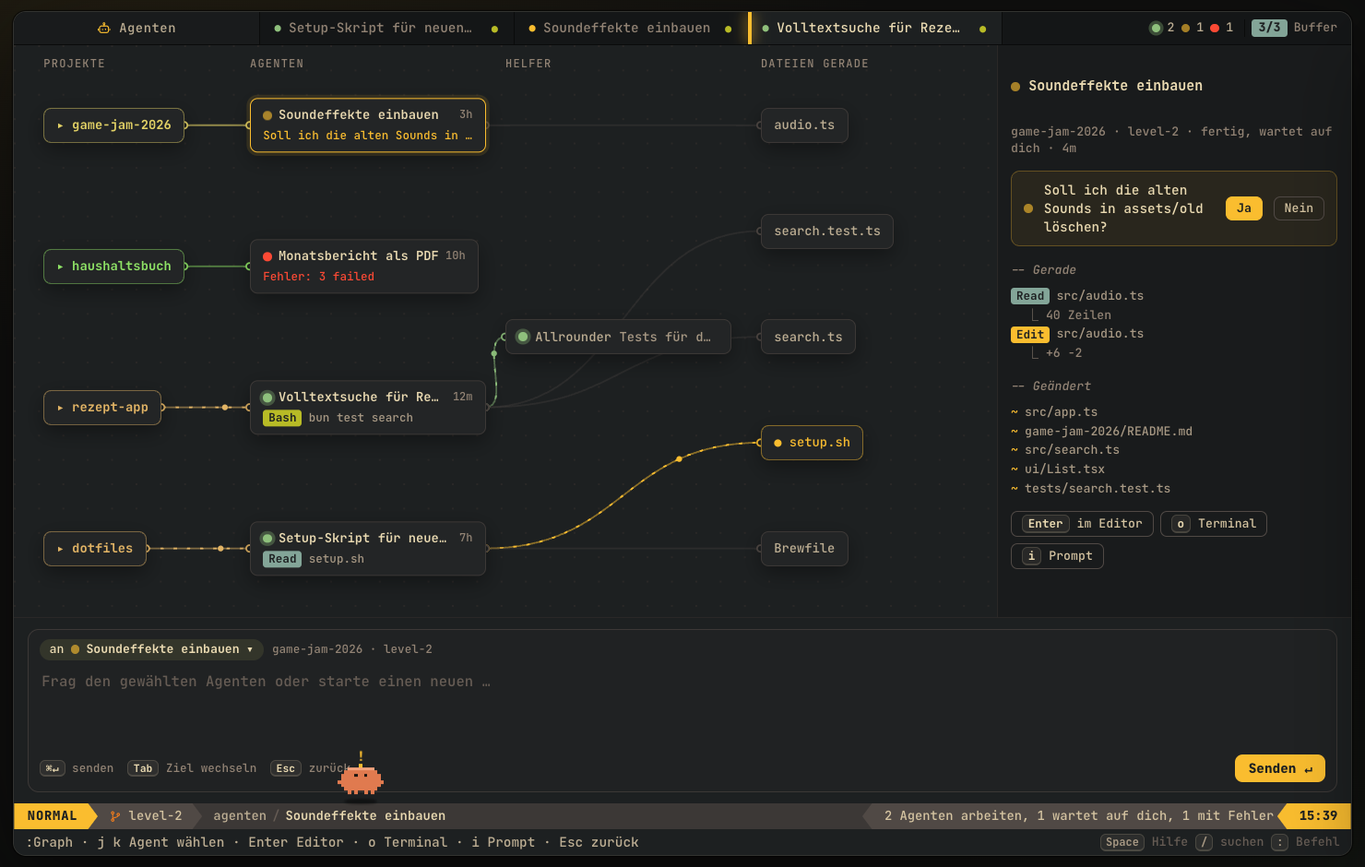
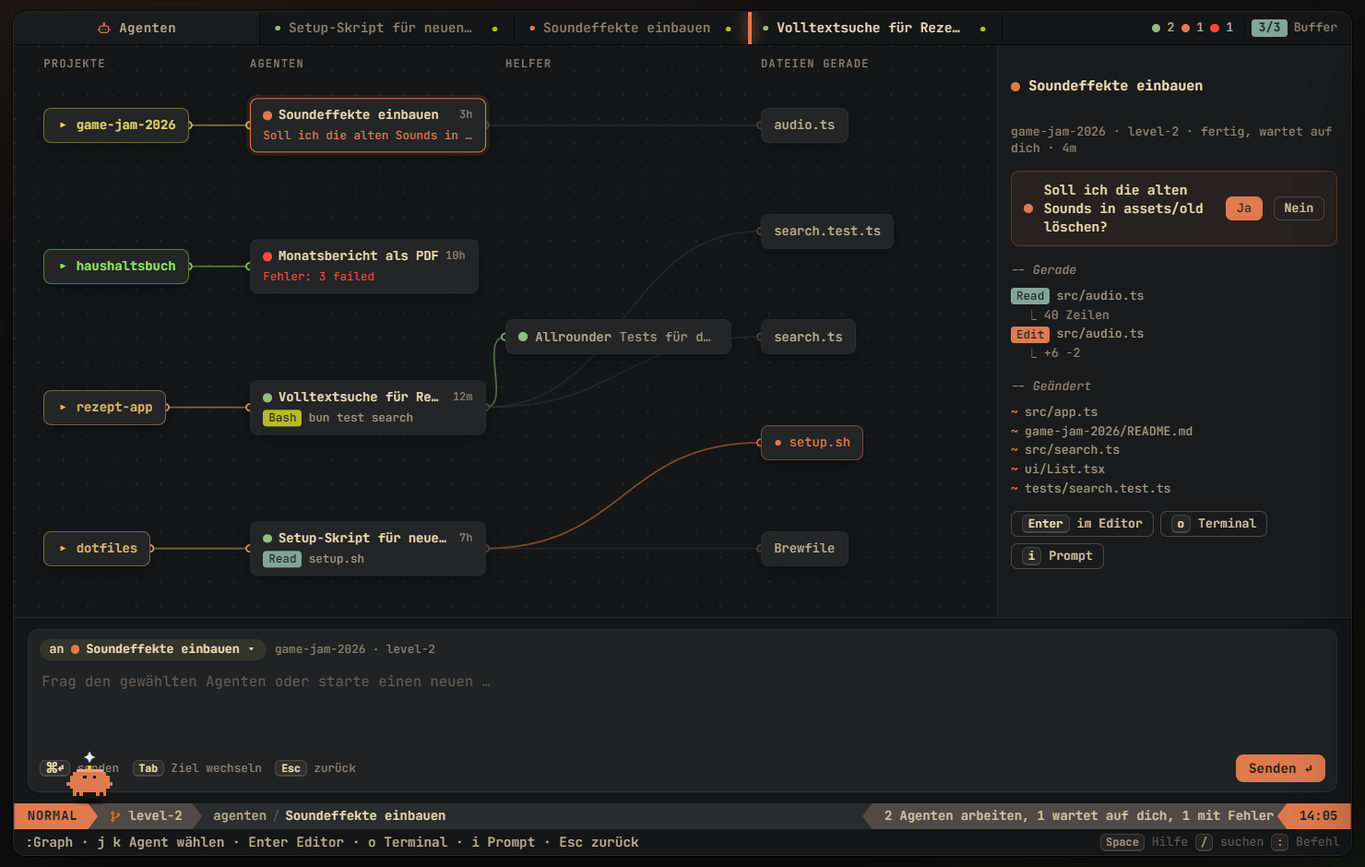
Loops Farben für die ganze App, neue Screenshots
Die App nutzt jetzt die Palette aus der Loops Ansicht: fast schwarzer
Hintergrund und Claude Orange statt Gruvbox Gelb als Akzent. Betrifft
Dashboard, Editor, Graph, Session Leiste, Terminal und den Begleiter.
Alle Screenshots im README sind mit den Demo Daten neu aufgenommen.

diff --git a/app/renderer/nvim.js b/app/renderer/nvim.js
@@ -2,15 +2,15 @@
 // relative numbers and signs, spring cables with particles, lualine, cmdline, Telescope, which-key, notify.
 (() => {
   const css = `
-.lk-nvim { --bgh:#1d2021; --bg0:#282828; --bg1:#3c3836; --bg2:#504945; --bg3:#665c54; --fg:#ebdbb2; --fg2:#d5c4a1; --fg3:#bdae93; --fg4:#a89984; --gr:#928374;
-  --rd:#fb4934; --gn:#b8bb26; --ye:#fabd2f; --bl:#83a598; --pu:#d3869b; --aq:#8ec07c; --or:#fe8019; --rh:22px; --tw:222px; --gut:40px;
+.lk-nvim { --bgh:#141617; --bg0:#1b1d1e; --bg1:#2a2d2f; --bg2:#504945; --bg3:#665c54; --fg:#ebdbb2; --fg2:#d5c4a1; --fg3:#bdae93; --fg4:#a89984; --gr:#928374;
+  --rd:#fb4934; --gn:#b8bb26; --ye:#e07a4f; --bl:#83a598; --pu:#d3869b; --aq:#8ec07c; --or:#fe8019; --rh:22px; --tw:222px; --gut:40px;
   font: 500 12.5px/1.4 var(--mono); color:var(--fg); overflow:hidden;
-  background: radial-gradient(1200px 700px at 8% -12%, rgba(250,189,47,.09), transparent 60%), radial-gradient(1000px 700px at 108% 118%, rgba(142,192,124,.09), transparent 60%), #0c0d0e; }
+  background: radial-gradient(1200px 700px at 8% -12%, rgba(224,122,79,.09), transparent 60%), radial-gradient(1000px 700px at 108% 118%, rgba(142,192,124,.09), transparent 60%), #0f1011; }
 .lk-nvim [hidden] { display:none !important; }
 .lk-nvim svg.i { width:13px; height:13px; }
 .lk-nvim kbd { font:700 10.5px var(--mono); color:var(--fg); background:rgba(235,219,178,.07); border:1px solid rgba(235,219,178,.16); border-bottom-width:2px; border-radius:5px; padding:0 5px; }
 .lk-nvim .nv-term { position:absolute; left:12px; right:12px; top:10px; bottom:10px; transition:bottom .5s cubic-bezier(.2,.9,.25,1); display:flex; flex-direction:column; background:var(--bgh); border:1px solid rgba(235,219,178,.1);
-  border-radius:12px; overflow:hidden; box-shadow:0 30px 90px rgba(0,0,0,.65), 0 0 0 1px rgba(0,0,0,.6), 0 0 120px rgba(250,189,47,.04); }
+  border-radius:12px; overflow:hidden; box-shadow:0 30px 90px rgba(0,0,0,.65), 0 0 0 1px rgba(0,0,0,.6), 0 0 120px rgba(224,122,79,.04); }
 
 /* ---------- dashboard ---------- */
 .lk-nvim .nv-dash { flex:1; min-height:0; overflow:auto; scrollbar-width:none; display:flex; flex-direction:column; align-items:center; padding:3.2vh 24px 14px; cursor:default; }
@@ -20,7 +20,7 @@
 .lk-nvim .dh-logo .lg-fg { position:absolute; inset:0; }
 .lk-nvim .dh-logo .lg-sh { color:#504945; }
 .lk-nvim .dh-logo .lg-fg span { background:linear-gradient(90deg, #fabd2f 0%, #fe8019 18%, #d3869b 30%, #8ec07c 44%, #83a598 50%, #8ec07c 62%, #fe8019 82%, #fabd2f 100%); background-size:200% 100%;
-  -webkit-background-clip:text; background-clip:text; color:transparent; animation:nvShim 9s ease-in-out infinite alternate; filter:drop-shadow(0 0 10px rgba(250,189,47,.28)); }
+  -webkit-background-clip:text; background-clip:text; color:transparent; animation:nvShim 9s ease-in-out infinite alternate; filter:drop-shadow(0 0 10px rgba(224,122,79,.28)); }
 .lk-nvim .dh-logo span { display:block; clip-path:inset(0 0 0 0); animation:nvType .85s steps(48) both; animation-delay:calc(var(--r) * 90ms); }
 .lk-nvim .dh-logo .lg-fg span { animation:nvType .85s steps(48) both, nvShim 9s ease-in-out 1.2s infinite alternate; animation-delay:calc(var(--r) * 90ms), 1.2s; }
 @keyframes nvType { from { clip-path:inset(0 100% 0 0); } }
@@ -50,7 +50,7 @@
 .lk-nvim .dh-lazy { margin-top:12px; color:var(--gr); font-size:11.5px; padding-left:10px; }
 .lk-nvim .dh-lazy b { color:var(--ye); font-weight:600; }
 .lk-nvim .dh-right { display:flex; flex-direction:column; gap:14px; min-width:0; border-radius:10px; transition:box-shadow .5s, background .5s; padding:2px 4px; }
-.lk-nvim .dh-right.pulse { background:rgba(250,189,47,.035); box-shadow:0 0 0 1px rgba(250,189,47,.3), 0 0 40px rgba(250,189,47,.08); }
+.lk-nvim .dh-right.pulse { background:rgba(224,122,79,.035); box-shadow:0 0 0 1px rgba(224,122,79,.3), 0 0 40px rgba(224,122,79,.08); }
 .lk-nvim .dh-tot { display:grid; grid-template-columns:repeat(4, 1fr); gap:8px; }
 .lk-nvim .dh-tot div { padding:6px 10px 7px; border-left:2px solid var(--c); background:linear-gradient(90deg, color-mix(in srgb, var(--c) 10%, transparent), transparent); border-radius:0 6px 6px 0;
   animation:nvUp .6s var(--spring) both; animation-delay:calc(300ms + var(--i) * 60ms); }
@@ -124,7 +124,7 @@
 .lk-nvim .tt.wt { color:var(--ye); } .lk-nvim .tt.er { color:var(--rd); }
 /* composer */
 .lk-nvim .cmp { display:flex; flex-direction:column; background:#202223; border:1px solid var(--bg1); border-radius:10px; min-height:0; overflow:hidden; transition:border-color .2s, box-shadow .2s; }
-.lk-nvim .cmp:focus-within { border-color:var(--ye); box-shadow:0 0 0 3px rgba(250,189,47,.12); }
+.lk-nvim .cmp:focus-within { border-color:var(--ye); box-shadow:0 0 0 3px rgba(224,122,79,.12); }
 .lk-nvim .cmp-top { display:flex; align-items:center; gap:8px; padding:8px 10px 0; min-width:0; }
 .lk-nvim .chip { display:inline-flex; align-items:center; gap:6px; padding:2px 9px; border-radius:20px; background:#2a2c2d; color:var(--fg3); font-size:11px; white-space:nowrap; max-width:100%; overflow:hidden; }
 .lk-nvim .chip.to { background:#33352a; color:var(--fg); }
@@ -139,7 +139,7 @@
 .lk-nvim .dh-sugg button { border:1px solid var(--bg1); border-radius:20px; padding:2px 10px; color:var(--fg4); font-size:11px; max-width:100%; overflow:hidden; text-overflow:ellipsis; white-space:nowrap; }
 .lk-nvim .dh-sugg button:hover { border-color:var(--ye); color:var(--fg); }
 /* needs you */
-.lk-nvim .ask { display:flex; align-items:center; gap:10px; padding:8px 11px; border-radius:8px; background:rgba(250,189,47,.07); border:1px solid rgba(250,189,47,.28); margin-bottom:6px; }
+.lk-nvim .ask { display:flex; align-items:center; gap:10px; padding:8px 11px; border-radius:8px; background:rgba(224,122,79,.07); border:1px solid rgba(224,122,79,.28); margin-bottom:6px; }
 .lk-nvim .ask.err { background:rgba(251,73,52,.06); border-color:rgba(251,73,52,.28); }
 .lk-nvim .ask .q { flex:1; min-width:0; color:var(--fg); font-size:12px; }
 .lk-nvim .ask .q small { display:block; color:var(--gr); font-size:10.5px; white-space:nowrap; overflow:hidden; text-overflow:ellipsis; }
@@ -158,8 +158,8 @@
 .lk-nvim .gn.ag .now { display:flex; gap:6px; align-items:center; font-size:10.5px; min-width:0; }
 .lk-nvim .gn.sub { color:var(--fg3); font-size:10.5px; padding:4px 8px; }
 .lk-nvim .gn.f { color:var(--fg3); font-size:10.5px; padding:3px 8px; }
-.lk-nvim .gn.f.hot { color:var(--ye); border-color:rgba(250,189,47,.45); }
-.lk-nvim .gn.on { border-color:var(--ye); box-shadow:0 0 0 3px rgba(250,189,47,.12), 0 6px 18px rgba(0,0,0,.35); }
+.lk-nvim .gn.f.hot { color:var(--ye); border-color:rgba(224,122,79,.45); }
+.lk-nvim .gn.on { border-color:var(--ye); box-shadow:0 0 0 3px rgba(224,122,79,.12), 0 6px 18px rgba(0,0,0,.35); }
 .lk-nvim .gn.done { opacity:.6; }
 .lk-nvim .mg .empty { position:absolute; left:0; right:0; bottom:8px; text-align:center; color:var(--gr); font-size:11px; font-style:italic; }
 /* today lanes */
@@ -234,12 +234,12 @@
 .lk-nvim .wb .c { margin-left:auto; color:var(--bg3); }
 .lk-nvim .nv-w.on .wb { color:var(--fg); }
 .lk-nvim .nv-w.on .wb .n { background:var(--ye); }
-.lk-nvim .nv-w.on .wb::after { content:""; position:absolute; left:0; right:0; bottom:-1px; height:1px; background:linear-gradient(90deg, var(--ye), rgba(250,189,47,0)); }
+.lk-nvim .nv-w.on .wb::after { content:""; position:absolute; left:0; right:0; bottom:-1px; height:1px; background:linear-gradient(90deg, var(--ye), rgba(224,122,79,0)); }
 .lk-nvim .wl { position:relative; flex:1; min-height:0; overflow:auto; scrollbar-width:none; padding:4px 0 12px; }
 .lk-nvim .wl::-webkit-scrollbar { display:none; }
 .lk-nvim .nv-w:not(.on) .rows { opacity:.74; }
 .lk-nvim .cl { position:absolute; left:0; right:0; top:0; height:var(--rh); background:#282625; pointer-events:none; z-index:0; transition:transform .55s var(--spring), background .3s, box-shadow .3s; }
-.lk-nvim .nv-w.on .cl { background:linear-gradient(90deg, rgba(250,189,47,.12), rgba(250,189,47,.035) 70%, rgba(250,189,47,.02)); box-shadow:inset 2px 0 0 var(--ye); }
+.lk-nvim .nv-w.on .cl { background:linear-gradient(90deg, rgba(224,122,79,.12), rgba(224,122,79,.035) 70%, rgba(224,122,79,.02)); box-shadow:inset 2px 0 0 var(--ye); }
 .lk-nvim .cur { position:absolute; left:var(--cx, 70px); top:0; width:1ch; height:var(--rh); pointer-events:none; z-index:3; transition:transform .55s var(--spring); }
 .lk-nvim .cur::before { content:""; position:absolute; left:0; right:0; top:3px; bottom:3px; background:var(--fg); mix-blend-mode:difference; border-radius:1px; animation:nvBlink 1.06s steps(1) infinite; }
 .lk-nvim .nv-w:not(.on) .cur { opacity:0; }
@@ -278,7 +278,7 @@
 .lk-nvim .tree .r.sel .tx { color:var(--fg); }
 .lk-nvim .tree .vt { font-style:normal; max-width:none; }
 .lk-nvim .tree .vt .cnt { color:var(--bg3); background:rgba(235,219,178,.05); border-radius:8px; padding:0 6px; }
-.lk-nvim .tree .r.sel .vt .cnt { color:var(--fg2); background:rgba(250,189,47,.12); }
+.lk-nvim .tree .r.sel .vt .cnt { color:var(--fg2); background:rgba(224,122,79,.12); }
 .lk-nvim .tree .cur { display:none; }
 /* scrollbar / minimap */
 .lk-nvim .sbar { position:absolute; right:1px; top:31px; bottom:4px; width:7px; z-index:4; pointer-events:none; }
@@ -304,7 +304,7 @@
 .lk-nvim .md-li small { color:var(--gr); margin-left:6px; }
 .lk-nvim .pv-f { flex:none; padding:9px 12px; border-top:1px solid #2a2827; display:flex; gap:8px; }
 .lk-nvim .go { flex:1; display:flex; align-items:center; justify-content:center; gap:8px; padding:8px 12px; border-radius:7px; font:800 12.5px var(--mono); color:#1d2021;
-  background:linear-gradient(135deg, var(--ye), #f5a623); box-shadow:0 6px 24px rgba(250,189,47,.2); transition:transform .35s var(--spring), filter .2s; }
+  background:linear-gradient(135deg, var(--ye), #f0a070); box-shadow:0 6px 24px rgba(224,122,79,.2); transition:transform .35s var(--spring), filter .2s; }
 .lk-nvim .go:hover { filter:brightness(1.08); transform:translateY(-1px); }
 .lk-nvim .go:active { transform:scale(.96); }
 .lk-nvim .go svg.i { fill:#1d2021; }
@@ -314,7 +314,7 @@
 .lk-nvim .w-glow { fill:none; stroke-width:7; opacity:.5; }
 .lk-nvim .w-core { fill:none; stroke-width:2; stroke-linecap:round; }
 .lk-nvim .w-end { fill:#1d2021; stroke-width:2; }
-.lk-nvim .w-p { fill:#fff6d8; }
+.lk-nvim .w-p { fill:#ffe2d3; }
 .lk-nvim .w-g { transition:opacity .35s; }
 .lk-nvim .w-g.off { opacity:0; }
 /* agents buffer */
@@ -334,7 +334,7 @@
 .lk-nvim .ag-r .mp { font-size:10px; padding:1px 7px; }
 .lk-nvim .ag-r .du { color:var(--ye); }
 .lk-nvim .ag-c { color:var(--gr); font-style:italic; padding:0 12px 0 22px; }
-.lk-nvim .ag-pt { position:absolute; left:0; top:0; width:6px; height:6px; border-radius:50%; background:#fff1c4; pointer-events:none; z-index:2;
+.lk-nvim .ag-pt { position:absolute; left:0; top:0; width:6px; height:6px; border-radius:50%; background:#ffd6c2; pointer-events:none; z-index:2;
   box-shadow:0 0 6px 2px var(--pc, #d3869b), 0 0 14px 4px color-mix(in srgb, var(--pc, #d3869b) 50%, transparent); offset-rotate:0deg; offset-anchor:50% 50%;
   animation:nvRide var(--d, 2.6s) linear infinite; animation-delay:var(--dl, 0s); }
 @keyframes nvRide { 0% { offset-distance:0%; opacity:0; } 8% { opacity:1; } 88% { opacity:1; } 100% { offset-distance:100%; opacity:0; } }
@@ -486,7 +486,7 @@
 .lk-nvim .mc-l .tp.http, .lk-nvim .mc-l .tp.sse { color:var(--bl); }
 .lk-nvim .mc-l .cm { color:var(--fg4); overflow:hidden; text-overflow:ellipsis; min-width:0; }
 .lk-nvim .mc-r { display:flex; align-items:center; gap:8px; color:var(--fg4); font-size:11px; padding-left:12px; }
-.lk-nvim .mc-r .ek { color:var(--ye); background:rgba(250,189,47,.08); border-radius:3px; padding:0 6px; }
+.lk-nvim .mc-r .ek { color:var(--ye); background:rgba(224,122,79,.08); border-radius:3px; padding:0 6px; }
 .lk-nvim .mc-r .st { color:var(--gr); font-style:italic; max-width:220px; overflow:hidden; text-overflow:ellipsis; }
 .lk-nvim .mc .sg.ok { color:var(--gn); } .lk-nvim .mc .sg.bad { color:var(--rd); } .lk-nvim .mc .sg.spin { color:var(--ye); } .lk-nvim .mc .sg.unk { color:var(--bg3); }
 .lk-nvim .mc-hint { flex:none; display:flex; align-items:center; gap:14px; flex-wrap:wrap; padding:8px 14px; border-top:1px solid #2a2827; color:var(--gr); font-size:11.5px; }
@@ -519,7 +519,7 @@
 .lk-nvim .ff input, .lk-nvim .ff textarea { width:100%; background:#1a1c1d; border:1px solid #3c3836; border-radius:4px; color:var(--fg); font:500 12.5px var(--mono); padding:5px 9px; outline:0; caret-color:var(--ye); resize:vertical; }
 .lk-nvim .ff textarea { min-height:58px; line-height:1.5; }
 .lk-nvim .ff input::placeholder, .lk-nvim .ff textarea::placeholder { color:#5a524c; }
-.lk-nvim .ff input:focus, .lk-nvim .ff textarea:focus, .lk-nvim .ff .ch:focus { border-color:var(--ye); box-shadow:0 0 0 1px rgba(250,189,47,.25); outline:0; }
+.lk-nvim .ff input:focus, .lk-nvim .ff textarea:focus, .lk-nvim .ff .ch:focus { border-color:var(--ye); box-shadow:0 0 0 1px rgba(224,122,79,.25); outline:0; }
 .lk-nvim .ff .ch { display:flex; gap:4px; align-items:center; border:1px solid transparent; border-radius:4px; padding:3px; min-width:0; }
 .lk-nvim .ff .ch span { padding:1px 10px; border-radius:3px; color:var(--fg4); cursor:pointer; font-size:12px; }
 .lk-nvim .ff .ch span:hover { color:var(--fg); }
@@ -569,7 +569,7 @@
   };
   const EIGHTH = ["", "▏", "▎", "▍", "▌", "▋", "▊", "▉"];
   const FAM = { opus: "#d3869b", sonnet: "#83a598", haiku: "#b8bb26", fable: "#fe8019", x: "#928374" };
-  const MODE_C = { NORMAL: "#fabd2f", VISUAL: "#d3869b", "V-LINE": "#d3869b", "V-BLOCK": "#d3869b", COMMAND: "#fe8019", INSERT: "#b8bb26", REPLACE: "#fb4934" };
+  const MODE_C = { NORMAL: "#e07a4f", VISUAL: "#d3869b", "V-LINE": "#d3869b", "V-BLOCK": "#d3869b", COMMAND: "#fe8019", INSERT: "#b8bb26", REPLACE: "#fb4934" };
   const QUOTES = ["Jede Session ist ein Faden. Hier laufen sie zusammen.", "Nicht neu anfangen. Weitermachen, wo es gut war.",
     "Ein guter Schritt zurück ist oft der schnellste nach vorn.", "Der beste Prompt ist der, den du schon geschrieben hast."];
 
@@ -720,13 +720,13 @@
       return "█".repeat(full) + (rem && full < cells ? EIGHTH[rem] : "") || "▏";
     };
 
-    const DASH_MENU = [["r", "Zuletzt", "clock", "#83a598"], ["f", "Suchen", "search", "#fabd2f"], ["g", "Agenten-Graph", "bot", "#8ec07c"], ["l", "Loops bis grün", "play", "#e07a4f"], ["p", "Projekte", "folder", "#8ec07c"], ["n", "Notizen", "note", "#b8bb26"],
-      ["a", "Agents-Bäume", "bot", "#d3869b"], ["m", "MCP-Server", "plug", "#8ec07c"], ["c", "Neue Session", "term", "#83a598"], ["o", "Neues Projekt", "folder", "#fabd2f"], ["s", "Statistik", "grid", "#fe8019"], ["q", "Schliessen", "x", "#928374"]];
+    const DASH_MENU = [["r", "Zuletzt", "clock", "#83a598"], ["f", "Suchen", "search", "#e07a4f"], ["g", "Agenten-Graph", "bot", "#8ec07c"], ["l", "Loops bis grün", "play", "#e07a4f"], ["p", "Projekte", "folder", "#8ec07c"], ["n", "Notizen", "note", "#b8bb26"],
+      ["a", "Agents-Bäume", "bot", "#d3869b"], ["m", "MCP-Server", "plug", "#8ec07c"], ["c", "Neue Session", "term", "#83a598"], ["o", "Neues Projekt", "folder", "#e07a4f"], ["s", "Statistik", "grid", "#fe8019"], ["q", "Schliessen", "x", "#928374"]];
 
     // ================= hub: live agents, prompt, widgets, graph =================
-    const TOOL_C = { Read: "#83a598", Edit: "#fabd2f", MultiEdit: "#fabd2f", Write: "#fe8019", NotebookEdit: "#fe8019", Bash: "#b8bb26", Grep: "#d3869b", Glob: "#d3869b",
+    const TOOL_C = { Read: "#83a598", Edit: "#e07a4f", MultiEdit: "#e07a4f", Write: "#fe8019", NotebookEdit: "#fe8019", Bash: "#b8bb26", Grep: "#d3869b", Glob: "#d3869b",
       Agent: "#8ec07c", Task: "#8ec07c", WebFetch: "#83a598", WebSearch: "#83a598", TodoWrite: "#928374" };
-    const ST_C = { run: "#8ec07c", wait: "#fabd2f", err: "#fb4934", done: "#504945" };
+    const ST_C = { run: "#8ec07c", wait: "#e07a4f", err: "#fb4934", done: "#504945" };
     const ST_RANK = { wait: 0, err: 1, run: 2, done: 3 };
     const dot = (s) => `<span class="hd-dot ${s}"></span>`;
     const shortT = (x) => { x = String(x || ""); return x.startsWith("/") ? x.split("/").slice(-2).join("/") : trunc(x, 70); };
@@ -858,7 +858,7 @@
         P.push([`p:${x.s.project}`, `s:${x.s.id}`, hsl(x.s.hue), x.st]);
         for (const a of x.subs) P.push([`s:${x.s.id}`, `a:${a.id}`, "#8ec07c", a.finished ? "done" : "run"]);
       }
-      for (const f of m.files) P.push([`s:${f.sid}`, `f:${f.path}`, f.hot ? "#fabd2f" : "#504945", f.hot ? "run" : "done"]);
+      for (const f of m.files) P.push([`s:${f.sid}`, `f:${f.path}`, f.hot ? "#e07a4f" : "#504945", f.hot ? "run" : "done"]);
       return P;
     }
 
@@ -918,7 +918,7 @@
         return `<div class="dh-h">-- <b>Heute</b> · ${A.hhmm(a)} bis jetzt</div><div class="tdl">${[...lanes.values()].slice(0, 6).map((l) => `<span class="n" style="color:${hsl(l.s.hue)}">${esc(l.s.projName)}</span><div class="trk">${blocks(l.ts).map(([x, y]) => `<i style="--c:${hsl(l.s.hue)};left:${pct(x - 4 * 60e3)}%;width:${Math.max(.8, pct(y + 4 * 60e3) - pct(x - 4 * 60e3))}%"></i>`).join("")}</div>`).join("")}
           <span class="ax"><span>${A.hhmm(a)}</span><span>${A.hhmm(a + span / 2)}</span><span>jetzt</span></span></div>`;
       }
-      if (k === "stats") return `<div class="dh-tot">${[["Sessions", T.sessions, "#83a598", 0], ["Schritte", T.steps, "#fabd2f", 0], ["Agents", T.agents, "#d3869b", 0], ["Kosten", T.cost, "#8ec07c", 2]].map(([l, v, col, dec], i) =>
+      if (k === "stats") return `<div class="dh-tot">${[["Sessions", T.sessions, "#83a598", 0], ["Schritte", T.steps, "#e07a4f", 0], ["Agents", T.agents, "#d3869b", 0], ["Kosten", T.cost, "#8ec07c", 2]].map(([l, v, col, dec], i) =>
         `<div style="--c:${col};--i:${i}"><b data-cu="${v}" data-dec="${dec}">${dec ? "$0.00" : "0"}</b><small>${l}</small></div>`).join("")}</div>`;
       if (k === "spark") return `<div class="dh-h">-- <b>Schritte pro Tag</b> · 30 Tage</div>
         <div class="spk"><div><div class="spk-g">${c.sp.map((row) => `<span>${row.map((ch, j) => `<i style="font-style:normal" title="${esc(dlabel(days30[j * 2].d))}: ${days30[j * 2].v} · ${esc(dlabel(days30[j * 2 + 1].d))}: ${days30[j * 2 + 1].v}">${ch}</i>`).join("")}</span>`).join("")}</div>
@@ -1356,8 +1356,8 @@
       const g = $("nvw" + i);
       return { g, y1: spr(), y2: spr(), x1: 0, x2: 0, ok: false, grad: $("nvg" + i), paths: [...g.querySelectorAll("path")], parts: [...g.querySelectorAll(".w-p")], ends: [...g.querySelectorAll(".w-end")], len: 0 };
     });
-    W[0].ends[0].setAttribute("stroke", "#fe8019"); W[0].ends[1].setAttribute("stroke", "#fabd2f");
-    W[1].ends[0].setAttribute("stroke", "#fabd2f"); W[1].ends[1].setAttribute("stroke", "#8ec07c");
+    W[0].ends[0].setAttribute("stroke", "#fe8019"); W[0].ends[1].setAttribute("stroke", "#e07a4f");
+    W[1].ends[0].setAttribute("stroke", "#e07a4f"); W[1].ends[1].setAttribute("stroke", "#8ec07c");
     W[2].ends[0].setAttribute("stroke", "#8ec07c"); W[2].ends[1].setAttribute("stroke", "#83a598");
     function measure() {
       if (st.view !== "editor") { W.forEach((w) => { w.ok = false; w.g.classList.add("off"); }); return; }

diff --git a/app/renderer/index.html b/app/renderer/index.html
@@ -14,9 +14,9 @@
 <link href="https://fonts.googleapis.com/css2?family=Figtree:wght@400;500;600;700;800&family=JetBrains+Mono:ital,wght@0,400;0,500;0,600;0,700;0,800;1,400;1,500&display=swap" rel="stylesheet">
 <style>
 :root {
-  --bg: #0a0c11; --ink: #ece9f5; --ink-2: #a9a5ba; --ink-3: #6f6b82;
+  --bg: #0f1011; --ink: #ece9f5; --ink-2: #a9a5ba; --ink-3: #6f6b82;
   --glass: rgba(255,255,255,.055); --glass-2: rgba(255,255,255,.1); --line: rgba(255,255,255,.12);
-  --violet: #8b6cff; --teal: #2dd4bf; --amber: #fabd2f; --rose: #fb7185; --green: #4ade80; --cyan: #22d3ee;
+  --violet: #8b6cff; --teal: #2dd4bf; --amber: #e07a4f; --rose: #fb7185; --green: #4ade80; --cyan: #22d3ee;
   --sans: "Figtree", -apple-system, sans-serif; --mono: "JetBrains Mono", ui-monospace, monospace; --display: "Orbitron", var(--sans);
   /* Spring easings in the spirit of Framer Motion */
   --spring: linear(0, 0.009, 0.035 2.1%, 0.141, 0.281 6.7%, 0.723 12.9%, 0.938 16.7%, 1.017, 1.077, 1.121, 1.149 24.3%, 1.159, 1.163, 1.161, 1.154 29.9%, 1.129 32.8%, 1.051 39.6%, 1.017 43.1%, 0.991, 0.977 51%, 0.974 53.8%, 0.975 57.1%, 0.997 69.8%, 1.003 76.9%, 1);
@@ -51,11 +51,11 @@ svg.i { width: 18px; height: 18px; stroke: currentColor; fill: none; stroke-widt
 #stage { position: fixed; inset: 0; }
 
 /* ---------- Shared drawer: a Neovim floating window (gruvbox, title in the border) ---------- */
-#drawer { --g-bg:#1d2021; --g-bg1:#3c3836; --g-bg2:#504945; --g-bg3:#665c54; --g-fg:#ebdbb2; --g-fg2:#d5c4a1; --g-fg3:#bdae93; --g-fg4:#a89984; --g-gr:#928374;
-  --g-ye:#fabd2f; --g-or:#fe8019; --g-aq:#8ec07c; --g-bl:#83a598; --g-pu:#d3869b; --g-gn:#b8bb26; --g-rd:#fb4934;
+#drawer { --g-bg:#141617; --g-bg1:#3c3836; --g-bg2:#504945; --g-bg3:#665c54; --g-fg:#ebdbb2; --g-fg2:#d5c4a1; --g-fg3:#bdae93; --g-fg4:#a89984; --g-gr:#928374;
+  --g-ye:#e07a4f; --g-or:#fe8019; --g-aq:#8ec07c; --g-bl:#83a598; --g-pu:#d3869b; --g-gn:#b8bb26; --g-rd:#fb4934;
   position: fixed; z-index: 60; top: 22px; right: 14px; bottom: 14px; width: min(500px, calc(100vw - 28px)); display: flex; flex-direction: column;
   font: 500 12.5px/1.45 var(--mono); color: var(--g-fg2);
-  background: rgba(29,32,33,.94); border: 1px solid rgba(235,219,178,.28); border-radius: 10px; backdrop-filter: blur(18px) saturate(150%); -webkit-backdrop-filter: blur(18px) saturate(150%);
+  background: rgba(20,22,23,.95); border: 1px solid rgba(235,219,178,.28); border-radius: 10px; backdrop-filter: blur(18px) saturate(150%); -webkit-backdrop-filter: blur(18px) saturate(150%);
   box-shadow: 0 1px 0 rgba(255,255,255,.04) inset, 0 30px 80px rgba(0,0,0,.6); transform: translateX(calc(100% + 30px)); transition: transform .55s var(--spring); }
 #drawer.open { transform: none; }
 #drawer .dw-title { position: absolute; top: -9px; left: 16px; right: 56px; display: flex; gap: 6px; align-items: center; pointer-events: none; z-index: 2; }
@@ -75,7 +75,7 @@ svg.i { width: 18px; height: 18px; stroke: currentColor; fill: none; stroke-widt
 .dw-lbl span:last-child { color: var(--g-gr); font-weight: 500; font-style: italic; }
 .kpis { display: grid; grid-template-columns: repeat(4, 1fr); gap: 8px; }
 .kpis div { padding: 4px 10px 5px; border-left: 2px solid var(--c, var(--g-bl)); background: linear-gradient(90deg, color-mix(in srgb, var(--c, #83a598) 10%, transparent), transparent); border-radius: 0 5px 5px 0; }
-.kpis div:nth-child(1) { --c: #83a598; } .kpis div:nth-child(2) { --c: #d3869b; } .kpis div:nth-child(3) { --c: #8ec07c; } .kpis div:nth-child(4) { --c: #fabd2f; }
+.kpis div:nth-child(1) { --c: #83a598; } .kpis div:nth-child(2) { --c: #d3869b; } .kpis div:nth-child(3) { --c: #8ec07c; } .kpis div:nth-child(4) { --c: #e07a4f; }
 .kpis .cap { color: var(--g-fg4); font-size: 10px; letter-spacing: .06em; text-transform: uppercase; }
 .kpis b { display: block; font: 800 17px var(--mono); color: var(--c); }
 .dw-graph { position: relative; height: 210px; border-radius: 6px; background: #191b1c; border: 1px solid #32302f; overflow: hidden; }
@@ -83,8 +83,8 @@ svg.i { width: 18px; height: 18px; stroke: currentColor; fill: none; stroke-widt
 .gnode { position: absolute; transform: translate(-50%, -50%); display: flex; flex-direction: column; align-items: center; gap: 3px; width: 96px; text-align: center; }
 .gnode .orb { width: 38px; height: 38px; border-radius: 50%; display: grid; place-items: center; background: #282828; border: 2px solid var(--g-pu); color: var(--g-pu); transition: transform .4s var(--spring), border-color .2s; }
 .gnode .orb svg.i { width: 18px; height: 18px; }
-.gnode:hover .orb, .gnode.on .orb { transform: scale(1.12); border-color: var(--g-ye); color: var(--g-ye); box-shadow: 0 0 18px rgba(250,189,47,.35); }
-.gnode.main .orb { width: 48px; height: 48px; background: radial-gradient(circle at 30% 30%, #fabd2f, #fe8019); border-color: #fabd2f; color: #1d2021; box-shadow: 0 0 24px rgba(250,189,47,.3); }
+.gnode:hover .orb, .gnode.on .orb { transform: scale(1.12); border-color: var(--g-ye); color: var(--g-ye); box-shadow: 0 0 18px rgba(224,122,79,.35); }
+.gnode.main .orb { width: 48px; height: 48px; background: radial-gradient(circle at 30% 30%, #f0a070, #e07a4f); border-color: #e07a4f; color: #1d2021; box-shadow: 0 0 24px rgba(224,122,79,.3); }
 .gnode b { font-size: 11px; white-space: nowrap; color: var(--g-fg); } .gnode small { font-size: 10px; color: var(--g-gr); line-height: 1.2; max-width: 96px; white-space: nowrap; overflow: hidden; text-overflow: ellipsis; display: block; }
 .agentbox { background: #191b1c; border: 1px solid var(--g-pu); border-radius: 6px; padding: 10px 12px; font-size: 12px; display: grid; gap: 6px; }
 .agentbox > .row b { color: var(--g-pu); }
@@ -95,7 +95,7 @@ svg.i { width: 18px; height: 18px; stroke: currentColor; fill: none; stroke-widt
 #drawer .cap { color: var(--g-gr); }
 /* Step path: connected points you can open and continue from */
 .path { position: relative; display: flex; flex-direction: column; }
-.path::before { content: ""; position: absolute; left: 13px; top: 14px; bottom: 14px; width: 2px; background: linear-gradient(#fabd2f, #8ec07c); opacity: .45; transform-origin: top; animation: grow 1s var(--spring-soft) both; }
+.path::before { content: ""; position: absolute; left: 13px; top: 14px; bottom: 14px; width: 2px; background: linear-gradient(#e07a4f, #8ec07c); opacity: .45; transform-origin: top; animation: grow 1s var(--spring-soft) both; }
 @keyframes grow { from { transform: scaleY(0); } }
 .step { position: relative; display: grid; grid-template-columns: 28px 1fr; gap: 10px; padding: 6px 0; text-align: left; width: 100%; border-radius: 5px; }
 .step:hover { background: rgba(235,219,178,.03); }
@@ -103,7 +103,7 @@ svg.i { width: 18px; height: 18px; stroke: currentColor; fill: none; stroke-widt
 .step .pt svg.i { width: 13px; height: 13px; color: var(--g-pu); }
 .step:hover .pt { transform: scale(1.1); border-color: var(--g-ye); }
 .step.now .pt { background: var(--g-aq); color: #1d2021; border-color: #b8e08e; box-shadow: 0 0 12px rgba(142,192,124,.5); }
-.step.open .pt { background: var(--g-ye); color: #1d2021; border-color: #ffd977; }
+.step.open .pt { background: var(--g-ye); color: #1d2021; border-color: #f3a27c; }
 .step .tx { font-size: 12.5px; padding-top: 5px; color: var(--g-fg2); overflow: hidden; display: -webkit-box; -webkit-line-clamp: 2; -webkit-box-orient: vertical; }
 .step.open .tx { -webkit-line-clamp: unset; display: block; color: var(--g-fg); }
 .step .cap.mono { font-size: 10.5px; }
@@ -113,7 +113,7 @@ svg.i { width: 18px; height: 18px; stroke: currentColor; fill: none; stroke-widt
 .btn { display: inline-flex; align-items: center; justify-content: center; gap: 8px; padding: 8px 12px; border-radius: 6px; font: 800 12.5px var(--mono); transition: transform .3s var(--spring), filter .2s; }
 .btn svg.i { width: 14px; height: 14px; }
 .btn:active { transform: scale(.96); }
-.btn.pri { background: linear-gradient(135deg, #fabd2f, #f5a623); color: #1d2021; box-shadow: 0 6px 24px rgba(250,189,47,.18); }
+.btn.pri { background: linear-gradient(135deg, #e07a4f, #f0a070); color: #1d2021; box-shadow: 0 6px 24px rgba(224,122,79,.18); }
 .btn.pri svg.i { fill: #1d2021; }
 .btn.pri:hover { filter: brightness(1.08); }
 .btn.sec { background: #32302f; color: var(--g-fg2); border: 1px solid #504945; }
@@ -123,7 +123,7 @@ svg.i { width: 18px; height: 18px; stroke: currentColor; fill: none; stroke-widt
 #drawer .mp { font-size: 10px; padding: 1px 7px; }
 
 /* ---------- toast (fallback when the look has no notify) ---------- */
-.toast { position: fixed; z-index: 120; right: 16px; top: 44px; transform: translateX(30px); opacity: 0; transition: .45s var(--spring); background: rgba(29,32,33,.94); color: #d5c4a1;
+.toast { position: fixed; z-index: 120; right: 16px; top: 44px; transform: translateX(30px); opacity: 0; transition: .45s var(--spring); background: rgba(20,22,23,.95); color: #d5c4a1;
   padding: 9px 14px; border-radius: 6px 9px 9px 6px; border: 1px solid rgba(235,219,178,.2); border-left: 3px solid #8ec07c; font: 600 12px var(--mono); box-shadow: 0 20px 50px rgba(0,0,0,.5); max-width: 360px; }
 .toast.show { transform: none; opacity: 1; }
 .toast code { display: block; font: 11px var(--mono); color: #a89984; margin-top: 3px; white-space: nowrap; overflow: hidden; text-overflow: ellipsis; }
@@ -271,9 +271,9 @@ function renderDrawer() {
     <div class="dw-b scroll">
       <div class="kpis"><div><span class="cap">Schritte</span><b>${s.nodes.length}</b></div><div><span class="cap">Agents</span><b>${1 + n}</b></div><div><span class="cap">Kosten</span><b>${usd(s.cost?.usd)}</b></div><div><span class="cap">Dateien</span><b>${s.files.length}</b></div></div>
       <div><div class="dw-lbl"><span>Wer hat gearbeitet</span><span>${n ? "Agent anklicken" : "nur Claude"}</span></div>
-        <div class="dw-graph" style="height:${H}px"><svg viewBox="0 0 ${W} ${H}" preserveAspectRatio="none"><defs><linearGradient id="gd" x1="0" x2="0" y1="0" y2="1"><stop offset="0" stop-color="#fabd2f"/><stop offset="1" stop-color="#d3869b"/></linearGradient></defs>
+        <div class="dw-graph" style="height:${H}px"><svg viewBox="0 0 ${W} ${H}" preserveAspectRatio="none"><defs><linearGradient id="gd" x1="0" x2="0" y1="0" y2="1"><stop offset="0" stop-color="#e07a4f"/><stop offset="1" stop-color="#d3869b"/></linearGradient></defs>
           ${pos.map((p, i) => `<path class="draw" style="--i:${i};--len:400" id="dth${i}" d="M${cx},${cy} C${cx},${cy + 60} ${p.x},${p.y - 70} ${p.x},${p.y - 20}" fill="none" stroke="url(#gd)" stroke-width="2"/>
-            <circle r="3" fill="#fff1c4"><animateMotion dur="${2 + i * .25}s" repeatCount="indefinite" begin="${1 + i * .15}s"><mpath href="#dth${i}"/></animateMotion></circle>`).join("")}</svg>
+            <circle r="3" fill="#ffd6c2"><animateMotion dur="${2 + i * .25}s" repeatCount="indefinite" begin="${1 + i * .15}s"><mpath href="#dth${i}"/></animateMotion></circle>`).join("")}</svg>
           <div class="gnode main in" style="left:50%;top:${cy / H * 100}%"><span class="orb">${ic("bot")}</span><b>${esc(s.agentName || "Claude")}</b></div>
           ${s.agents.map((x, i) => `<button class="gnode in ${x.id === dw.agent ? "on" : ""}" style="--i:${i + 3};left:${pos[i].x / W * 100}%;top:${pos[i].y / H * 100}%" data-dagent="${x.id}"><span class="orb">${ic("bot")}</span><b>${esc(aName(x.type))}</b><small>${esc(x.description || "")}</small></button>`).join("")}
           ${n ? "" : `<div class="cap" style="position:absolute;left:0;right:0;bottom:30px;text-align:center">Claude hat hier allein gearbeitet.</div>`}

diff --git a/app/renderer/terminal.js b/app/renderer/terminal.js
@@ -21,7 +21,7 @@
   #term .ttab { position: relative; display: flex; align-items: center; gap: 7px; padding: 0 8px 0 13px; max-width: 280px; min-width: 0; color: #928374; border-right: 1px solid #0a0b0b; font-size: 12px; }
   #term .ttab:hover { background: #1b1d1e; color: #bdae93; }
   #term .ttab.on { background: var(--tb); color: #ebdbb2; }
-  #term .ttab.on::before { content: ""; position: absolute; left: 0; top: 0; bottom: 0; width: 3px; background: #b8bb26; box-shadow: 0 0 12px #b8bb26; }
+  #term .ttab.on::before { content: ""; position: absolute; left: 0; top: 0; bottom: 0; width: 3px; background: #e07a4f; box-shadow: 0 0 12px rgba(224,122,79,.6); }
   #term .ttab .ico { color: #b8bb26; font-size: 11px; }
   #term .ttab .nm { white-space: nowrap; overflow: hidden; text-overflow: ellipsis; }
   #term .ttab .tx { width: 18px; height: 18px; border-radius: 4px; display: grid; place-items: center; flex: none; color: #928374; font-size: 13px; }
@@ -31,20 +31,20 @@
   #term .tbtn kbd { font: 700 10px var(--mono); color: #a89984; background: rgba(235,219,178,.07); border: 1px solid rgba(235,219,178,.16); border-bottom-width: 2px; border-radius: 4px; padding: 0 4px; margin-left: 6px; }
   #term .tbody { flex: 1; position: relative; min-height: 0; }
   #term .xt { position: absolute; inset: 6px 4px 4px 12px; display: none; } #term .xt.on { display: block; }
-  #term .tsl { height: 22px; display: flex; align-items: stretch; background: #282828; flex: none; font-size: 11px; white-space: nowrap; }
+  #term .tsl { height: 22px; display: flex; align-items: stretch; background: #141617; flex: none; font-size: 11px; white-space: nowrap; }
   #term .tsl > span { display: flex; align-items: center; gap: 6px; }
-  #term .tsl .m { background: #b8bb26; color: #1d2021; font-weight: 800; letter-spacing: .06em; padding: 0 18px 0 12px; clip-path: polygon(0 0, calc(100% - 9px) 0, 100% 50%, calc(100% - 9px) 100%, 0 100%); z-index: 2; transition: background .3s; }
+  #term .tsl .m { background: #e07a4f; color: #1a0f0a; font-weight: 800; letter-spacing: .06em; padding: 0 18px 0 12px; clip-path: polygon(0 0, calc(100% - 9px) 0, 100% 50%, calc(100% - 9px) 100%, 0 100%); z-index: 2; transition: background .3s; }
   #term.nrm .tsl .m { background: #83a598; }
   #term.nrm .xt.on { box-shadow: inset 0 0 0 1px rgba(131,165,152,.35); border-radius: 4px; }
   #term .tsl .c kbd { font: 700 10px var(--mono); color: #d5c4a1; background: rgba(235,219,178,.08); border: 1px solid rgba(235,219,178,.18); border-radius: 3px; padding: 0 4px; margin: 0 2px; }
   #term:not(.focus) .tsl .m { background: #665c54; color: #d5c4a1; }
-  #term .tsl .b { background: #504945; color: #d5c4a1; margin-left: -9px; padding: 0 18px 0 19px; clip-path: polygon(0 0, calc(100% - 9px) 0, 100% 50%, calc(100% - 9px) 100%, 0 100%); z-index: 1; }
-  #term .tsl .c { background: #3c3836; margin-left: -9px; padding: 0 14px 0 19px; flex: 1; min-width: 0; color: #bdae93; overflow: hidden; }
+  #term .tsl .b { background: #2a2d2f; color: #d5c4a1; margin-left: -9px; padding: 0 18px 0 19px; clip-path: polygon(0 0, calc(100% - 9px) 0, 100% 50%, calc(100% - 9px) 100%, 0 100%); z-index: 1; }
+  #term .tsl .c { background: #1b1d1e; margin-left: -9px; padding: 0 14px 0 19px; flex: 1; min-width: 0; color: #bdae93; overflow: hidden; }
   #term .tsl .c b { color: #ebdbb2; font-weight: 600; overflow: hidden; text-overflow: ellipsis; }
-  #term .tsl .y { background: #504945; color: #d5c4a1; padding: 0 12px 0 20px; clip-path: polygon(9px 0, 100% 0, 100% 100%, 9px 100%, 0 50%); margin-left: -9px; }
+  #term .tsl .y { background: #2a2d2f; color: #d5c4a1; padding: 0 12px 0 20px; clip-path: polygon(9px 0, 100% 0, 100% 100%, 9px 100%, 0 50%); margin-left: -9px; }
   #term .xterm-viewport { scrollbar-width: thin; scrollbar-color: #504945 transparent; }
   #termfab { position: fixed; z-index: 69; right: 22px; bottom: 82px; display: none; align-items: center; gap: 8px; padding: 5px 10px; border-radius: 6px; font: 700 11.5px var(--mono);
-    background: rgba(29,32,33,.92); color: #b8bb26; border: 1px solid rgba(184,187,38,.45); box-shadow: 0 10px 30px rgba(0,0,0,.4); }
+    background: rgba(20,22,23,.95); color: #e07a4f; border: 1px solid rgba(224,122,79,.45); box-shadow: 0 10px 30px rgba(0,0,0,.4); }
   #termfab:hover { background: #282828; }
   #livepill { position: fixed; z-index: 90; left: 18px; bottom: 20px; transform: translateY(40px); opacity: 0; pointer-events: none; transition: .5s var(--spring);
     padding: 6px 12px; border-radius: 6px; background: rgba(29,32,33,.94); color: #b8bb26; border: 1px solid rgba(184,187,38,.45); font: 700 12px var(--mono); box-shadow: 0 8px 24px rgba(0,0,0,.4); }

diff --git a/app/renderer/mascot.js b/app/renderer/mascot.js
@@ -18,7 +18,7 @@
   @keyframes mbob { 50% { transform:translateY(-2px); } }
   @keyframes mhop { 0%,100% { transform:translateY(0); } 40% { transform:translateY(-7px); } }
   #mascot .sig { position:absolute; left:50%; top:-16px; transform:translateX(-50%); font:800 12px var(--mono); pointer-events:none; }
-  #mascot.m-wait .sig { color:#fabd2f; animation:mbob .5s infinite; } #mascot.m-sweat .sig { color:#83a598; animation:mdrop 1.2s infinite; }
+  #mascot.m-wait .sig { color:#e07a4f; animation:mbob .5s infinite; } #mascot.m-sweat .sig { color:#83a598; animation:mdrop 1.2s infinite; }
   #mascot.m-sleep .sig { color:#83a598; animation:mz 2.4s infinite; } #mascot.m-sad .sig { color:#fb4934; }
   @keyframes mdrop { from { transform:translate(6px,0); opacity:1; } to { transform:translate(8px,10px); opacity:0; } }
   @keyframes mz { from { transform:translate(4px,4px) scale(.7); opacity:0; } 40% { opacity:1; } to { transform:translate(12px,-10px) scale(1.1); opacity:0; } }

diff --git a/README.md b/README.md
@@ -34,7 +34,7 @@ bun run demo       # mit erfundenen Demo-Daten (für Screenshots)
 
 **Dashboard:** Prompt-Feld „Was soll Claude tun?“ (`i` schreiben, `Tab` wechselt das Ziel zwischen laufenden Agenten und neuen Sessions, `Cmd Enter` schickt ab), „Braucht dich“ mit Agenten, die auf eine Antwort warten (Ja/Nein direkt beantworten), ein kleiner Live-Graph und die Statistik. Über `⚙ Widgets` schaltest du einzelne Bausteine an und aus oder wählst `kompakt`, `standard` oder `voll`.
 
-**Agenten-Graph** (`g` auf dem Dashboard, `Space g`, `:Graph`): Projekte, Agenten, ihre Helfer und die Dateien, an denen sie gerade arbeiten, mit Linien verbunden. Grün arbeitet, gelb wartet auf dich, rot hatte einen Fehler. `j`/`k` wählt einen Agenten, rechts steht, was er zuletzt getan hat; `Enter` öffnet ihn im Editor, `o` im Terminal, `i` schreibt ihm einen Prompt. Den Zustand liest die App aus den Session-Dateien: zuletzt ein Werkzeug-Aufruf und vor weniger als 90 Sekunden geschrieben heißt „arbeitet“, eine fertige Antwort in den letzten 30 Minuten heißt „wartet auf dich“.
+**Agenten-Graph** (`g` auf dem Dashboard, `Space g`, `:Graph`): Projekte, Agenten, ihre Helfer und die Dateien, an denen sie gerade arbeiten, mit Linien verbunden. Grün arbeitet, orange wartet auf dich, rot hatte einen Fehler. `j`/`k` wählt einen Agenten, rechts steht, was er zuletzt getan hat; `Enter` öffnet ihn im Editor, `o` im Terminal, `i` schreibt ihm einen Prompt. Den Zustand liest die App aus den Session-Dateien: zuletzt ein Werkzeug-Aufruf und vor weniger als 90 Sekunden geschrieben heißt „arbeitet“, eine fertige Antwort in den letzten 30 Minuten heißt „wartet auf dich“.
 
 ![Agenten-Graph](docs/screenshots/graph.png)
 
